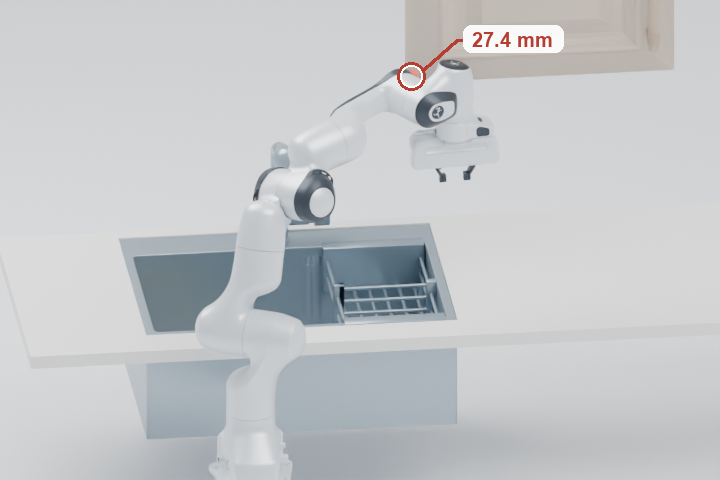
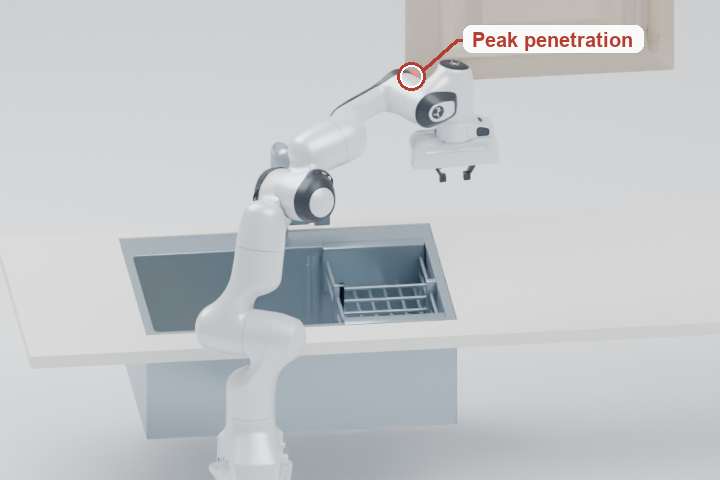
Label peak penetration in the collision illustration

Changed region(s): [[0.6417, 0.0312, 0.9167, 0.125]]

diff --git a/index.html b/index.html
@@ -97,7 +97,7 @@
         </article>
         <article class="measure-card">
           <div class="measure-frame">
-            <video width="720" height="480" muted playsinline preload="none" poster="/VRBench/media/measure/collision.png" aria-label="The reconstructed arm approaches a cabinet door. A coral ring marks the peak penetration of 27.4 mm."><source src="/VRBench/media/measure/collision.mp4?fps=60" type="video/mp4"></video>
+            <video width="720" height="480" muted playsinline preload="none" poster="/VRBench/media/measure/collision.png?label=peak" aria-label="The reconstructed arm approaches a cabinet door. A coral ring marks the point of peak penetration."><source src="/VRBench/media/measure/collision.mp4?fps=60&amp;label=peak" type="video/mp4"></video>
             
             <button type="button" class="measure-control" aria-label="Play collision animation" data-title="collision">
               <svg aria-hidden="true" viewBox="0 0 24 24"><path class="play-mark" d="m9 6 9 6-9 6z"/><path class="pause-mark" d="M8 6v12m8-12v12"/><path class="replay-mark" d="M5 10a7 7 0 1 1 .8 6M5 5v5h5"/></svg>
